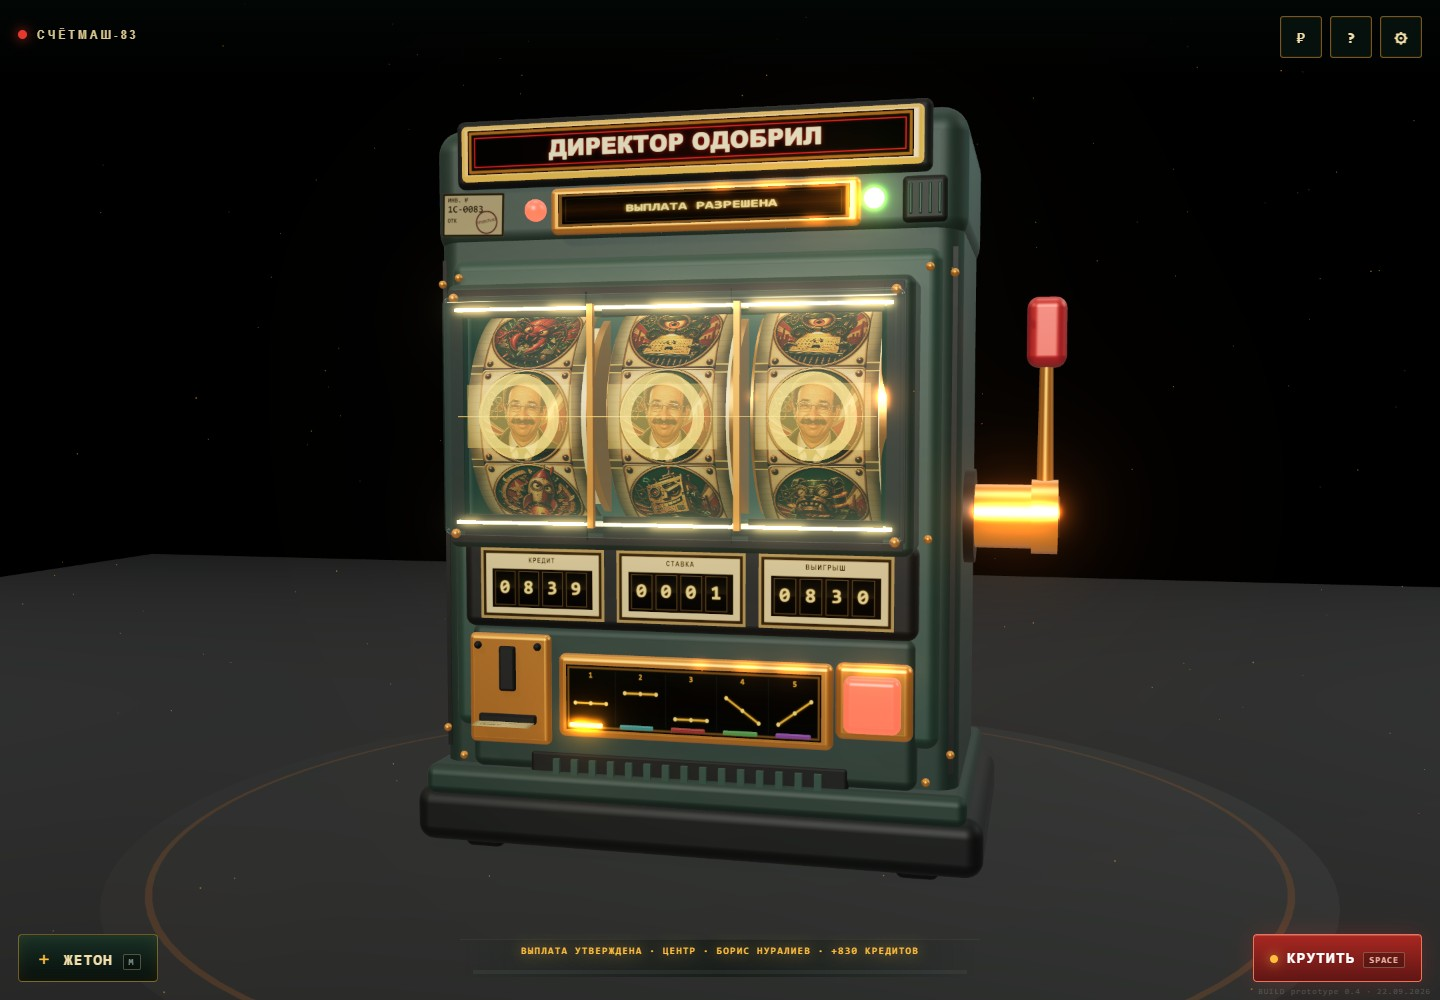
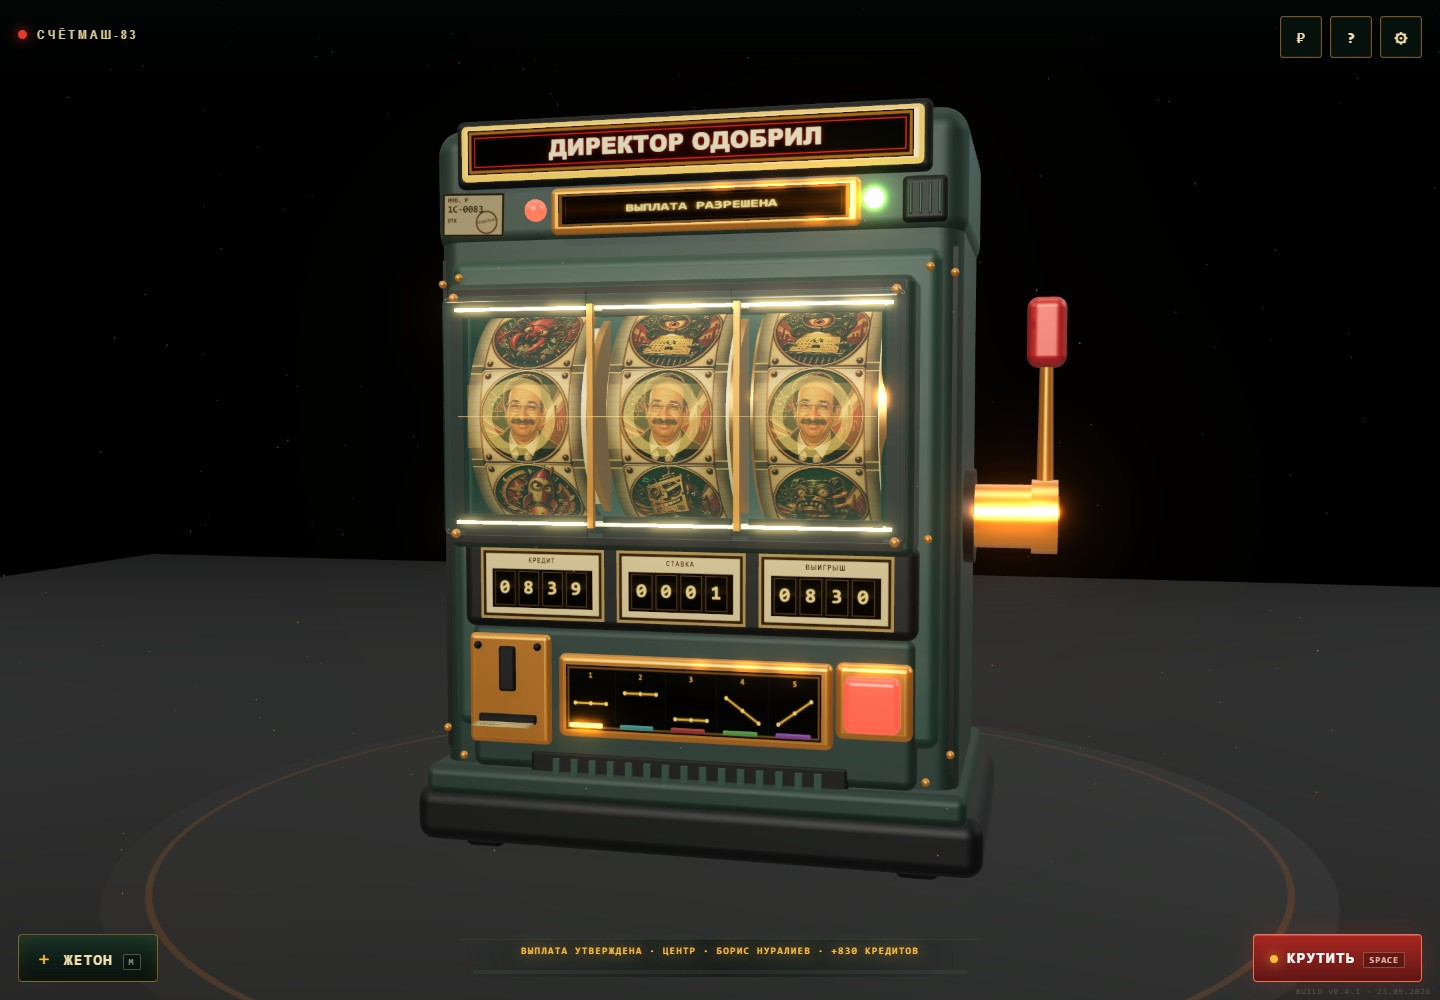
Optimize cabinet rendering and receipt physics without reducing visual quality

Changed region(s): [[0.3125, 0.372, 0.5, 0.465], [0.5312, 0.372, 0.625, 0.465], [0.375, 0.713, 0.4375, 0.744]]

diff --git a/src/receipt-paper.js b/src/receipt-paper.js
@@ -124,6 +124,8 @@ export class ReceiptPaper {
     this.previous.fill(0);
     this.uvs.fill(0);
     this.rowMaterial.fill(0);
+    this.materialLength = NaN;
+    this.materialRows = -1;
 
     // A microscopic outward bias gives the first length constraint a
     // deterministic direction when the two initial rows separate.
@@ -136,6 +138,7 @@ export class ReceiptPaper {
 
   update(now, dt, reducedMotion = false) {
     if (reducedMotion) {
+      if (this.length === this.targetLength) return;
       if (this.length !== this.targetLength) {
         this.length = this.targetLength;
         this.#ensureRows();
@@ -147,6 +150,7 @@ export class ReceiptPaper {
       return;
     }
 
+    const previousRows = this.activeRows;
     if (this.length < this.targetLength) {
       const feedPulse = .82 + Math.max(0, Math.sin(now * .052)) * .34;
       this.length = Math.min(this.targetLength, this.length + dt * .31 * feedPulse);
@@ -166,7 +170,7 @@ export class ReceiptPaper {
     if (steps === MAX_SUBSTEPS) this.accumulator = 0;
 
     this.#updateMaterialCoordinates();
-    this.#updateGeometry();
+    if (steps > 0 || previousRows !== this.activeRows) this.#updateGeometry();
   }
 
   debug() {
@@ -619,12 +623,14 @@ export class ReceiptPaper {
       const centerIndex = (row * this.columns + Math.floor(this.columns / 2)) * 3;
       const centerY = this.positions[centerIndex + 1];
       const centerZ = this.positions[centerIndex + 2];
+      const acrossX = this.width * Math.cos(shape.yaw);
+      const acrossZ = this.width * Math.sin(shape.yaw);
       for (let column = 0; column < this.columns; column += 1) {
         const across = column / (this.columns - 1) - .5;
         const index = (row * this.columns + column) * 3;
         if (inElasticBend || inDrape || inHangingRoll || onGroundPath) {
-          const targetX = shape.x + across * this.width * Math.cos(shape.yaw);
-          const targetZ = shape.z + across * this.width * Math.sin(shape.yaw);
+          const targetX = shape.x + across * acrossX;
+          const targetZ = shape.z + across * acrossZ;
           const strength = onGroundPath
             ? (distanceFromSlot > coilStart ? .56 : .60)
             : inHangingRoll ? .48 : inDrape ? .24 : elasticWeight;
@@ -664,12 +670,14 @@ export class ReceiptPaper {
     const dx = this.positions[indexB] - this.positions[indexA];
     const dy = this.positions[indexB + 1] - this.positions[indexA + 1];
     const dz = this.positions[indexB + 2] - this.positions[indexA + 2];
-    const distance = Math.hypot(dx, dy, dz);
+    // Paper coordinates are bounded to a few world units. The general-purpose
+    // overflow scaling in Math.hypot is unnecessary in this hottest loop.
+    const distance = Math.sqrt(dx * dx + dy * dy + dz * dz);
     if (distance < EPSILON) return;
 
-    const pinnedRow = this.activeRows - 1;
-    const invA = Math.floor(pointA / this.columns) === pinnedRow ? 0 : 1;
-    const invB = Math.floor(pointB / this.columns) === pinnedRow ? 0 : 1;
+    const pinnedStart = (this.activeRows - 1) * this.columns;
+    const invA = pointA >= pinnedStart ? 0 : 1;
+    const invB = pointB >= pinnedStart ? 0 : 1;
     const invTotal = invA + invB;
     if (invTotal === 0) return;
 
@@ -752,6 +760,7 @@ export class ReceiptPaper {
   }
 
   #updateMaterialCoordinates() {
+    if (this.materialLength === this.length && this.materialRows === this.activeRows) return;
     for (let row = 0; row < this.activeRows; row += 1) {
       const material = Math.min(row * this.segmentLength, this.length);
       this.rowMaterial[row] = material;
@@ -762,13 +771,15 @@ export class ReceiptPaper {
         this.uvs[uvIndex + 1] = v;
       }
     }
+    this.materialLength = this.length;
+    this.materialRows = this.activeRows;
+    this.mesh.geometry.attributes.uv.needsUpdate = true;
   }
 
   #updateGeometry() {
     const geometry = this.mesh.geometry;
     geometry.setDrawRange(0, Math.max(0, this.activeRows - 1) * (this.columns - 1) * 6);
     geometry.attributes.position.needsUpdate = true;
-    geometry.attributes.uv.needsUpdate = true;
     geometry.computeVertexNormals();
   }
 }

diff --git a/src/static-batches.js b/src/static-batches.js
@@ -1,0 +1,51 @@
+import { Mesh } from 'three';
+import { mergeGeometries } from 'three/addons/utils/BufferGeometryUtils.js';
+
+// Combine only opaque, stationary siblings. Their exact geometry, normals,
+// materials and shadow settings are retained; animated parts keep their nodes.
+export function batchStaticMeshes(root, excluded = []) {
+  const protectedMeshes = new Set(excluded);
+  const groups = new Map();
+  for (const mesh of root.children) {
+    const material = mesh.material;
+    if (!mesh.isMesh || mesh.children.length || protectedMeshes.has(mesh)
+      || !mesh.visible || mesh.userData.action || Array.isArray(material)
+      || material.transparent || material.transmission > 0
+      || mesh.customDepthMaterial || mesh.customDistanceMaterial
+      || mesh.geometry.drawRange.count !== Infinity
+      || Object.keys(mesh.geometry.morphAttributes).length) continue;
+    mesh.updateMatrix();
+    if (mesh.matrix.determinant() <= 0) continue;
+    const attributes = Object.entries(mesh.geometry.attributes)
+      .map(([name, value]) => `${name}:${value.itemSize}:${value.normalized}:${value.array.constructor.name}`).sort().join(',');
+    const key = [material.uuid, mesh.castShadow, mesh.receiveShadow, mesh.renderOrder,
+      mesh.layers.mask, Boolean(mesh.geometry.index), attributes].join('|');
+    if (!groups.has(key)) groups.set(key, []);
+    groups.get(key).push(mesh);
+  }
+
+  let meshesRemoved = 0;
+  let batches = 0;
+  for (const meshes of groups.values()) {
+    if (meshes.length < 2) continue;
+    const pieces = meshes.map(mesh => mesh.geometry.clone().applyMatrix4(mesh.matrix));
+    const geometry = mergeGeometries(pieces, false);
+    pieces.forEach(piece => piece.dispose());
+    if (!geometry) continue;
+    geometry.computeBoundingBox();
+    geometry.computeBoundingSphere();
+    const first = meshes[0];
+    const merged = new Mesh(geometry, first.material);
+    merged.name = `static-cabinet-batch-${batches}`;
+    merged.castShadow = first.castShadow;
+    merged.receiveShadow = first.receiveShadow;
+    merged.renderOrder = first.renderOrder;
+    merged.layers.mask = first.layers.mask;
+    merged.matrixAutoUpdate = false;
+    root.remove(...meshes);
+    root.add(merged);
+    meshesRemoved += meshes.length - 1;
+    batches += 1;
+  }
+  return { batches, meshesRemoved };
+}

diff --git a/src/main.js b/src/main.js
@@ -929,6 +929,27 @@ document.addEventListener('visibilitychange', () => {
   if (!pageVisible) audio.stopMotor();
 });
 
+// The key light and cabinet are stationary most of the time. Camera movement,
+// emissive lamps and scrolling reel textures do not change their shadow map.
+renderer.shadowMap.autoUpdate = false;
+let previousShadowState = null;
+function updateShadowCache() {
+  const next = [
+    mode === 'spinning',
+    machine.root.position.x, machine.root.rotation.z,
+    machine.lever.rotation.z,
+    machine.oracle.displayPanel.position.x,
+    machine.oracle.receipt.mesh.visible,
+    machine.oracle.receipt.mesh.geometry.attributes.position.version,
+    machine.coinSystem.active.length,
+  ];
+  if (!previousShadowState || next.some((value, index) => value !== previousShadowState[index])
+    || mode === 'spinning' || machine.coinSystem.active.length) {
+    renderer.shadowMap.needsUpdate = true;
+  }
+  previousShadowState = next;
+}
+
 function animate(now = performance.now()) {
   requestAnimationFrame(animate);
   if (!pageVisible) return;
@@ -949,6 +970,7 @@ function animate(now = performance.now()) {
   const shake = state.shake && !reducedMotion && mode === 'spinning' ? Math.sin(now * .075) * .0045 : 0;
   machine.root.position.x = shake;
   machine.root.rotation.z = shake * .25;
+  updateShadowCache();
   composer.render();
   updateFpsCounter(now, frameDeltaMs);
 

diff --git a/src/machine.js b/src/machine.js
@@ -32,6 +32,7 @@ import {
 import { RoundedBoxGeometry } from 'three/addons/geometries/RoundedBoxGeometry.js';
 import { CoinFX } from './coin-fx.js';
 import { ReceiptPaper } from './receipt-paper.js';
+import { batchStaticMeshes } from './static-batches.js';
 
 const C = {
   body: 0x142820,
@@ -826,10 +827,12 @@ export function createCabinet({ reelTextures, paylines = [] }) {
     if (object.userData.action) interactives.push(object);
   });
 
+  const staticBatches = batchStaticMeshes(root, [oracle.displayPanel, oracle.receipt.mesh]);
+
   return {
     root, reels, lever, physicalButton, coinSlot, coinSystem, counterDisplays,
     paylineLights, paylineVisuals, symbolHighlights, celebrationFx, winLights,
-    panoramicGlass, lineDisplay, oracle, interactives,
+    panoramicGlass, lineDisplay, oracle, interactives, staticBatches,
   };
 }
 

diff --git a/vite.config.js b/vite.config.js
@@ -1,7 +1,11 @@
 import { defineConfig } from 'vite';
 import { resolve } from 'node:path';
+import { readFileSync } from 'node:fs';
 
-export default defineConfig({
+const { version } = JSON.parse(readFileSync(new URL('./package.json', import.meta.url), 'utf8'));
+
+export default defineConfig(({ mode }) => ({
+  server: mode === 'test' ? { hmr: false, watch: null } : undefined,
   base: './',
   resolve: {
     alias: [
@@ -9,7 +13,7 @@ export default defineConfig({
     ],
   },
   define: {
-    __BUILD_INFO__: JSON.stringify(`prototype 0.4 · ${new Date().toLocaleDateString('ru-RU')}`),
+    __BUILD_INFO__: JSON.stringify(`v${version} · ${new Date().toLocaleDateString('ru-RU')}`),
   },
   build: {
     rolldownOptions: {
@@ -24,4 +28,4 @@ export default defineConfig({
       },
     },
   },
-});
+}));

diff --git a/CHANGELOG.md b/CHANGELOG.md
@@ -1,5 +1,15 @@
 # История изменений
 
+## 0.4.1 — 2026-09-23
+
+- объединена отрисовка неподвижных деталей корпуса без изменения геометрии и материалов;
+- карта теней сохраняется до движения объектов, отбрасывающих тень;
+- ускорен расчёт физики бумажного чека без сокращения числа итераций и полигонов;
+- исключены повторные обновления неизменившихся координат текстуры и геометрии бумаги;
+- добавлена проверка сохранения геометрии при объединении деталей;
+- опубликованы MIT, описание ресурсов, скриншоты и готовая браузерная сборка;
+- браузерные проверки подготовлены к программному WebGL на сервере автоматической сборки.
+
 ## 0.4.0 — 2026-08-14
 
 - реализован утверждённый образ «Бюрократический оракул»;
